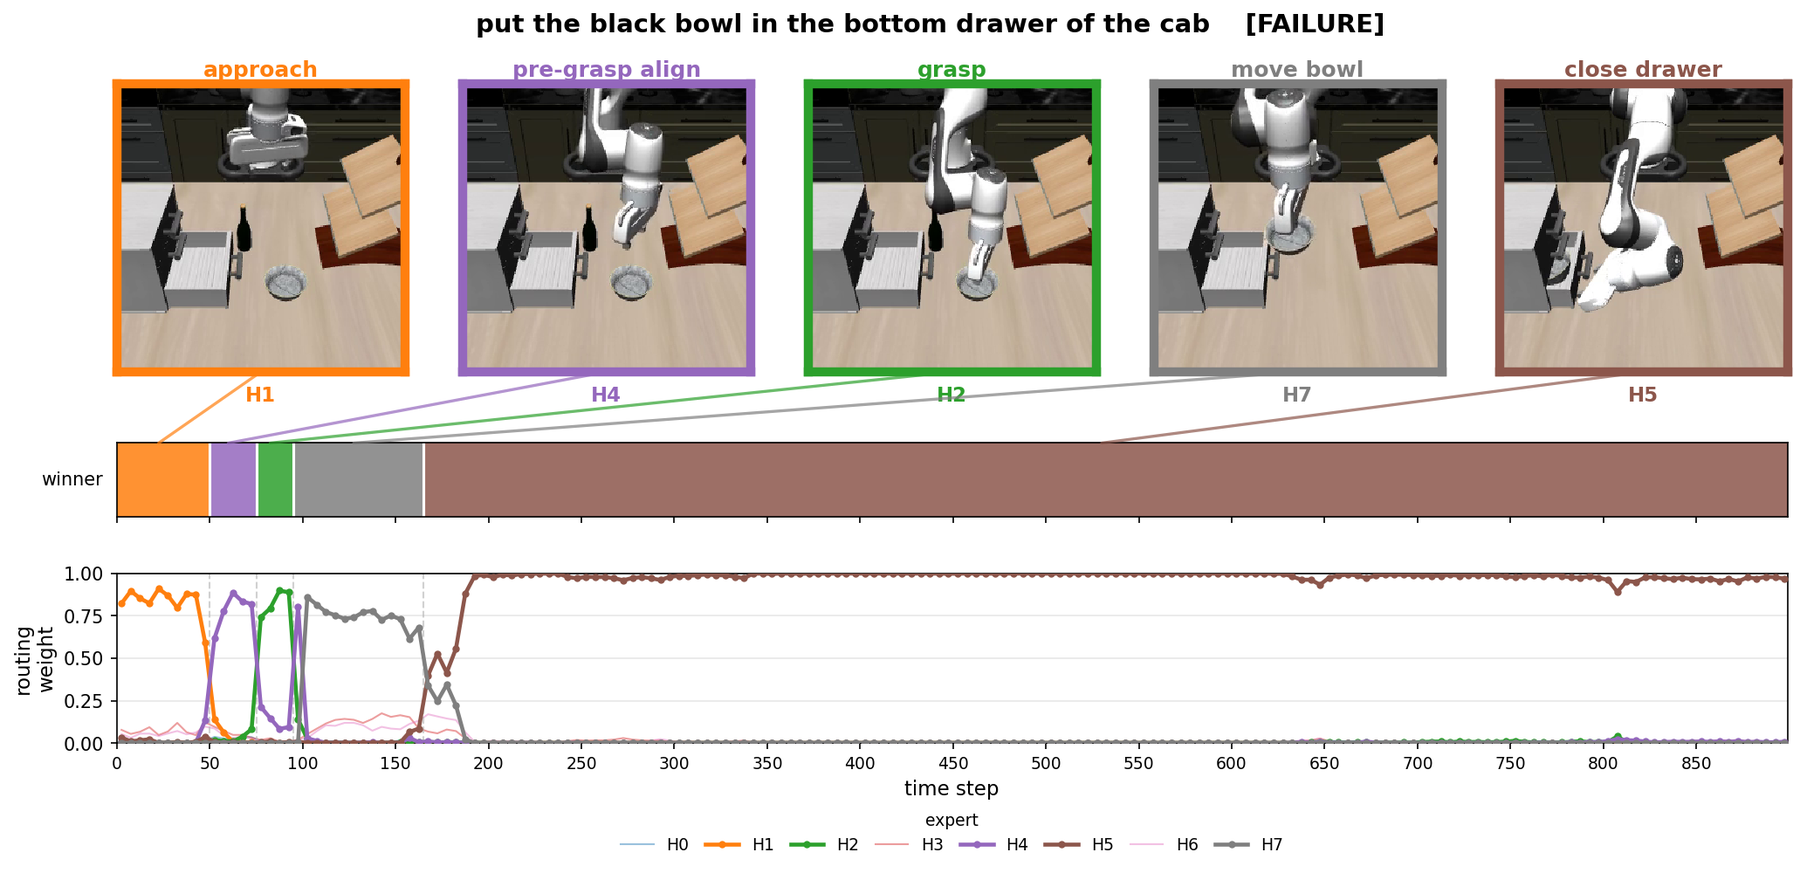
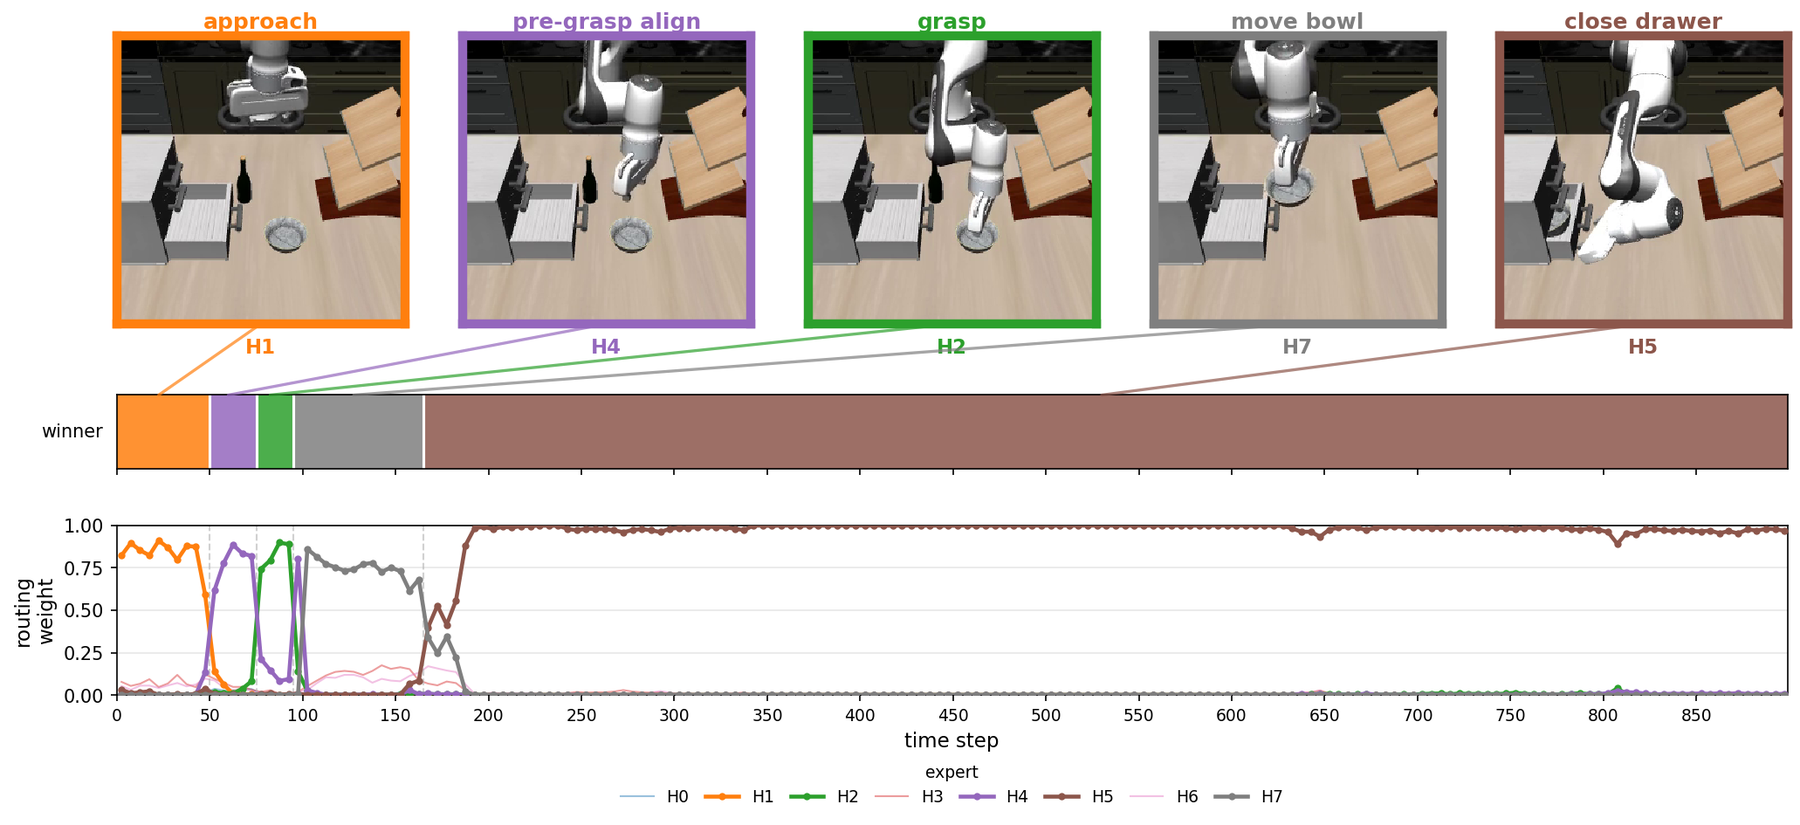
Make thesis figures read larger; state torque control on hardware
- Thesis figures are wider than the text column on large screens, the
  results plot is stacked on phones, and the cut-off title strips are
  cropped from the routing traces.
- Stewart platform: the hardware ran under torque control; the MATLAB
  solver was built on existing Lie-group helper routines.

diff --git a/projects/vla-failure-detection/index.html b/projects/vla-failure-detection/index.html
@@ -12,9 +12,9 @@
   <meta property="og:url" content="https://cms0714.github.io/projects/vla-failure-detection/">
   <meta property="og:image" content="https://cms0714.github.io/assets/img/thesis/trace-success.png">
   <link rel="canonical" href="https://cms0714.github.io/projects/vla-failure-detection/">
-  <script src="../../assets/js/theme.js?v=20261120e"></script>
-  <link rel="stylesheet" href="../../assets/css/style.css?v=20261120e">
-  <link rel="stylesheet" href="../../assets/css/project.css?v=20261120e">
+  <script src="../../assets/js/theme.js?v=20261121a"></script>
+  <link rel="stylesheet" href="../../assets/css/style.css?v=20261121a">
+  <link rel="stylesheet" href="../../assets/css/project.css?v=20261121a">
   <link rel="stylesheet" href="https://cdn.jsdelivr.net/npm/katex@0.16.11/dist/katex.min.css" crossorigin="anonymous">
   <script defer src="https://cdn.jsdelivr.net/npm/katex@0.16.11/dist/katex.min.js" crossorigin="anonymous"></script>
   <script defer src="https://cdn.jsdelivr.net/npm/katex@0.16.11/dist/contrib/auto-render.min.js" crossorigin="anonymous"
@@ -131,8 +131,8 @@
       </p>
       <div class="eq">\[ q_k = \frac{\exp(-e_k/\tau_r)}{\sum_{j=1}^{K} \exp(-e_j/\tau_r)}, \qquad \mathcal{L}_{\text{gate}} = -\sum_{k=1}^{K} q_k \log w_k \]</div>
 
-      <figure>
-        <div class="frame">
+      <figure class="wide">
+        <div class="frame scroll">
           <a href="../../assets/img/thesis/architecture.png"><img src="../../assets/img/thesis/architecture.png" width="1800" height="842" loading="lazy"
                alt="Architecture: SmolVLA's vision-language model feeds a routing module that mean-pools the image embeddings, generates K hypothesis latents, scores them, and passes the best one to the flow-matching action expert through AdaLN conditioning."></a>
         </div>
@@ -140,23 +140,23 @@
       </figure>
 
       <h3 class="sub">Emergent phase decomposition: a success and the two failure signatures</h3>
-      <figure>
+      <figure class="wide">
         <div class="frame">
-          <a href="../../assets/img/thesis/trace-success.png"><img src="../../assets/img/thesis/trace-success.png" width="1800" height="873" loading="lazy"
+          <a href="../../assets/img/thesis/trace-success.png"><img src="../../assets/img/thesis/trace-success.png" width="1800" height="825" loading="lazy"
                alt="A successful rollout of 'put the black bowl in the bottom drawer of the cabinet'. Five camera frames labelled approach, pre-grasp align, grasp, move bowl and close drawer sit above a timeline coloured by the winning hypothesis and a plot of the eight routing weights. Each phase is held by a different hypothesis."></a>
         </div>
-        <figcaption><b>Success.</b> In this rollout the router hands over from one hypothesis to the next as the task moves through approach, pre-grasp, grasp, move and close. No phase labels are used in training.</figcaption>
+        <figcaption><b>Success</b> (“put the black bowl in the bottom drawer of the cabinet”). In this rollout the router hands over from one hypothesis to the next as the task moves through approach, pre-grasp, grasp, move and close. No phase labels are used in training.</figcaption>
       </figure>
-      <figure>
+      <figure class="wide">
         <div class="frame">
-          <a href="../../assets/img/thesis/trace-stuck.png"><img src="../../assets/img/thesis/trace-stuck.png" width="1800" height="873" loading="lazy"
+          <a href="../../assets/img/thesis/trace-stuck.png"><img src="../../assets/img/thesis/trace-stuck.png" width="1800" height="825" loading="lazy"
                alt="A failed rollout of the same task: after the first four phases, one hypothesis wins from about step 165 to the end near step 900."></a>
         </div>
         <figcaption><b>Stuck (dwell).</b> Same task, failed: one hypothesis dominates for hundreds of steps.</figcaption>
       </figure>
-      <figure>
+      <figure class="wide">
         <div class="frame">
-          <a href="../../assets/img/thesis/trace-unstable.png"><img src="../../assets/img/thesis/trace-unstable.png" width="1800" height="736" loading="lazy"
+          <a href="../../assets/img/thesis/trace-unstable.png"><img src="../../assets/img/thesis/trace-unstable.png" width="1800" height="694" loading="lazy"
                alt="A failed rollout in which the winning hypothesis changes many times and the routing weights stay close together."></a>
         </div>
         <figcaption><b>Unstable (entropy).</b> The winner keeps changing and the weights stay close together.</figcaption>
@@ -193,10 +193,13 @@
         </table>
       </div>
 
-      <figure>
-        <div class="frame scroll">
-          <a href="../../assets/img/thesis/balacc-vs-time.png"><img src="../../assets/img/thesis/balacc-vs-time.png" width="1800" height="440" loading="lazy"
-               alt="Balanced accuracy against normalized detection time for six detectors on LIBERO seen, LIBERO unseen and LIBERO-PRO. The routing detector's curve lies highest on all three."></a>
+      <figure class="wide">
+        <div class="frame">
+          <a href="../../assets/img/thesis/balacc-vs-time.png"><picture>
+            <source media="(max-width: 40rem)" srcset="../../assets/img/thesis/balacc-vs-time-stacked.png" width="562" height="1585">
+            <img src="../../assets/img/thesis/balacc-vs-time.png" width="1800" height="440" loading="lazy"
+               alt="Balanced accuracy against normalized detection time for six detectors on LIBERO seen, LIBERO unseen and LIBERO-PRO. The routing detector's curve lies highest on all three.">
+          </picture></a>
         </div>
         <figcaption>Balanced accuracy against detection time on full episodes. Top-left is earlier and more accurate. Opens at full size.</figcaption>
       </figure>

diff --git a/projects/control-and-planning/index.html b/projects/control-and-planning/index.html
@@ -12,9 +12,9 @@
   <meta property="og:url" content="https://cms0714.github.io/projects/control-and-planning/">
   <meta property="og:image" content="https://cms0714.github.io/assets/img/earlier-stewart.jpg">
   <link rel="canonical" href="https://cms0714.github.io/projects/control-and-planning/">
-  <script src="../../assets/js/theme.js?v=20261120e"></script>
-  <link rel="stylesheet" href="../../assets/css/style.css?v=20261120e">
-  <link rel="stylesheet" href="../../assets/css/project.css?v=20261120e">
+  <script src="../../assets/js/theme.js?v=20261121a"></script>
+  <link rel="stylesheet" href="../../assets/css/style.css?v=20261121a">
+  <link rel="stylesheet" href="../../assets/css/project.css?v=20261121a">
   <link rel="stylesheet" href="https://cdn.jsdelivr.net/npm/katex@0.16.11/dist/katex.min.css" crossorigin="anonymous">
   <script defer src="https://cdn.jsdelivr.net/npm/katex@0.16.11/dist/katex.min.js" crossorigin="anonymous"></script>
   <script defer src="https://cdn.jsdelivr.net/npm/katex@0.16.11/dist/contrib/auto-render.min.js" crossorigin="anonymous"
@@ -62,8 +62,8 @@
       <p class="meta">Rosota, student robotics team · Nov 2025 – Jan 2026</p>
       <p class="lead">
         A forward-kinematics solver and a 500 Hz task-space torque controller for a 6-RSS Stewart platform,
-        tested in Isaac Sim and run on hardware. The solver is mine; the controller was co-developed with a
-        teammate.
+        tested in Isaac Sim and run under torque control on hardware. The solver is mine; the controller
+        was co-developed with a teammate.
       </p>
 
       <div class="pair">
@@ -79,9 +79,9 @@
           <div class="frame media">
             <video autoplay muted loop playsinline controls preload="metadata" width="832" height="506"
                    poster="../../assets/video/earlier/stewart-hardware.jpg" src="../../assets/video/earlier/stewart-hardware.mp4"
-                   aria-label="The physical Stewart platform, mounted at the end of a robot arm, tilting and moving its top plate."></video>
+                   aria-label="The physical Stewart platform under torque control, mounted at the end of a robot arm, tilting and moving its top plate."></video>
           </div>
-          <figcaption><b>Hardware.</b> The platform, mounted at the end of a robot arm.</figcaption>
+          <figcaption><b>Hardware.</b> The platform under torque control, mounted at the end of a robot arm.</figcaption>
         </figure>
       </div>
 
@@ -115,8 +115,9 @@
       <p>
         where \(J_{p,i} \in \mathbb{R}^{6 \times 5}\) holds the passive-joint columns of leg \(i\)'s space
         Jacobian. This follows the geometric method of
-        <a href="https://doi.org/10.3390/s22134829">Yang et al. (2022)</a>; I wrote it in MATLAB first and
-        then in C++, where one solve takes 1–2 ms.
+        <a href="https://doi.org/10.3390/s22134829">Yang et al. (2022)</a>. I wrote the solver in MATLAB
+        first, on top of existing Lie-group helper routines (exponential, logarithm, hat), and then in C++,
+        where one solve takes 1–2 ms.
       </p>
 
       <h3 class="sub">Jacobian and control law</h3>

diff --git a/assets/css/project.css b/assets/css/project.css
@@ -19,6 +19,12 @@ figure img { width: 100%; height: auto; display: block; }
 figcaption { color: var(--muted); font-size: 0.9rem; line-height: 1.5; margin-top: 0.5rem; }
 figcaption b { color: var(--text); }
 figure a { display: block; }
+figure picture { display: block; }
+/* figures with small print: wider than the text column on large screens */
+@media (min-width: 66rem) {
+  figure.wide { width: min(60rem, 92vw); margin-left: 50%; transform: translateX(-50%); }
+  figure.wide figcaption, figure.wide + .clip-note { max-width: calc(var(--max) - 2.5rem); margin-left: auto; margin-right: auto; }
+}
 /* photos and video of real scenes: no white mat */
 figure .frame.media { padding: 0; overflow: hidden; background: var(--surface); }
 figure .frame.media video, figure .frame.media img { border-radius: 0; }

diff --git a/index.html b/index.html
@@ -11,8 +11,8 @@
   <meta property="og:type" content="website">
   <meta property="og:url" content="https://cms0714.github.io/">
   <link rel="canonical" href="https://cms0714.github.io/">
-  <script src="assets/js/theme.js?v=20261120e"></script>
-  <link rel="stylesheet" href="assets/css/style.css?v=20261120e">
+  <script src="assets/js/theme.js?v=20261121a"></script>
+  <link rel="stylesheet" href="assets/css/style.css?v=20261121a">
 </head>
 <body>
 <div class="wrap">
